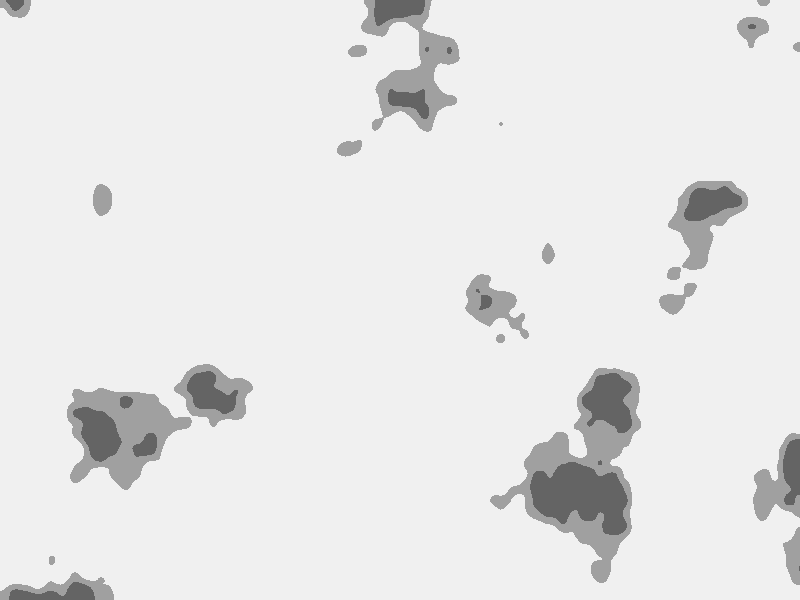
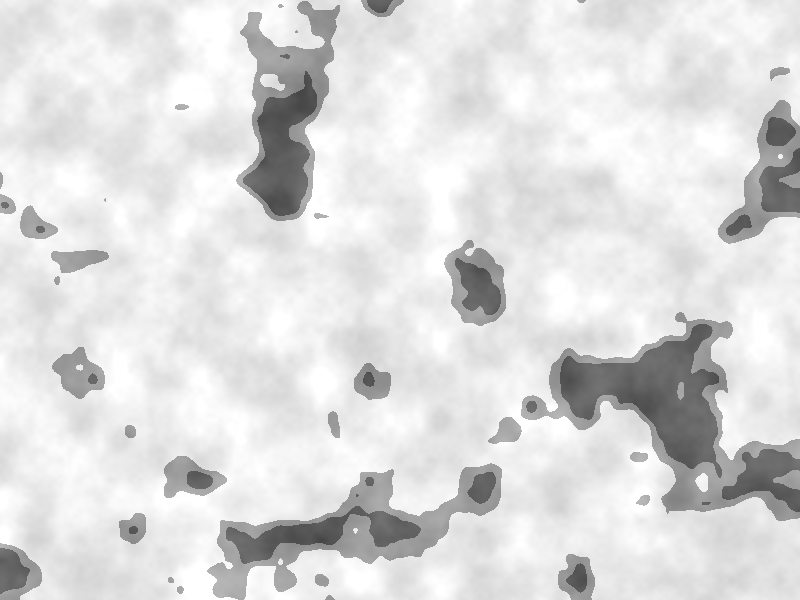
Fine tuned Perlin generated background a bit

diff --git a/assets/Perlin/index.html b/assets/Perlin/index.html
@@ -14,8 +14,8 @@ function draw() {
   for (let x = 0; x<800; x++) {
     for (let y = 0; y<600; y++) {
       let perlinNoise = noise((x+xInc)/100, (y+yInc)/100);
-      let perlinNoise2 = noise((x+xInc+1000)/80, (y+yInc+1000)/80);
-      perlinNoise2 = map(perlinNoise2, 0, 1, -50, 100);
+      let perlinNoise2 = noise((x+xInc+1000)/40, (y+yInc+1000)/40);
+      perlinNoise2 = map(perlinNoise2, 0, 1, -40, 40);
       if (perlinNoise > 0.7) {
         set(x, y, 100+perlinNoise2);
       } else if (perlinNoise > 0.65) {
